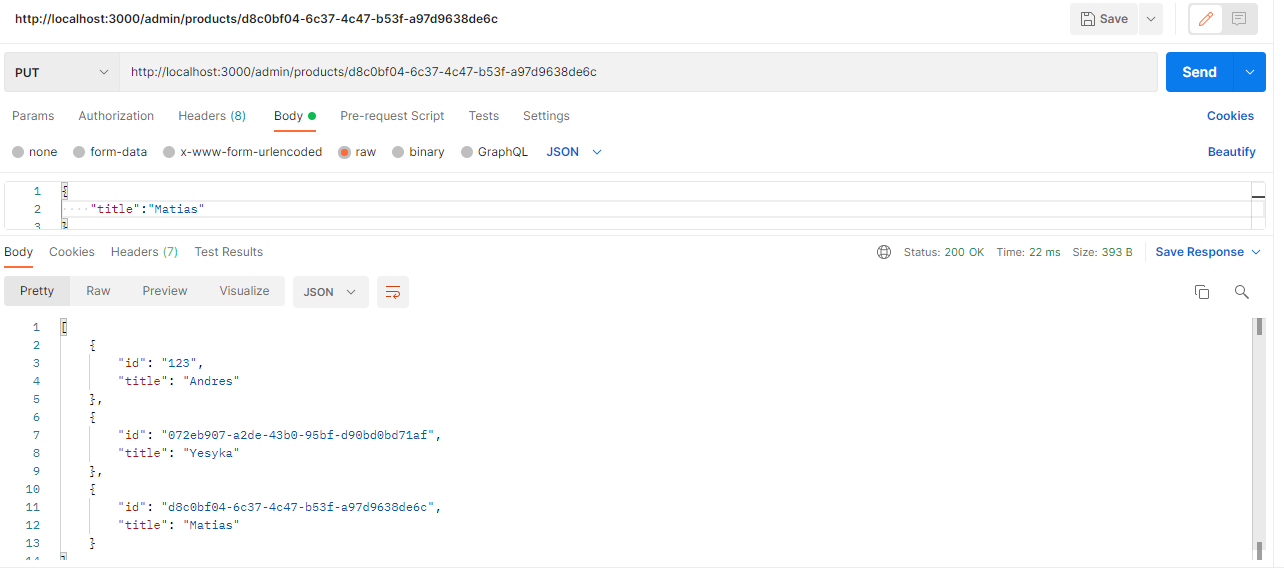
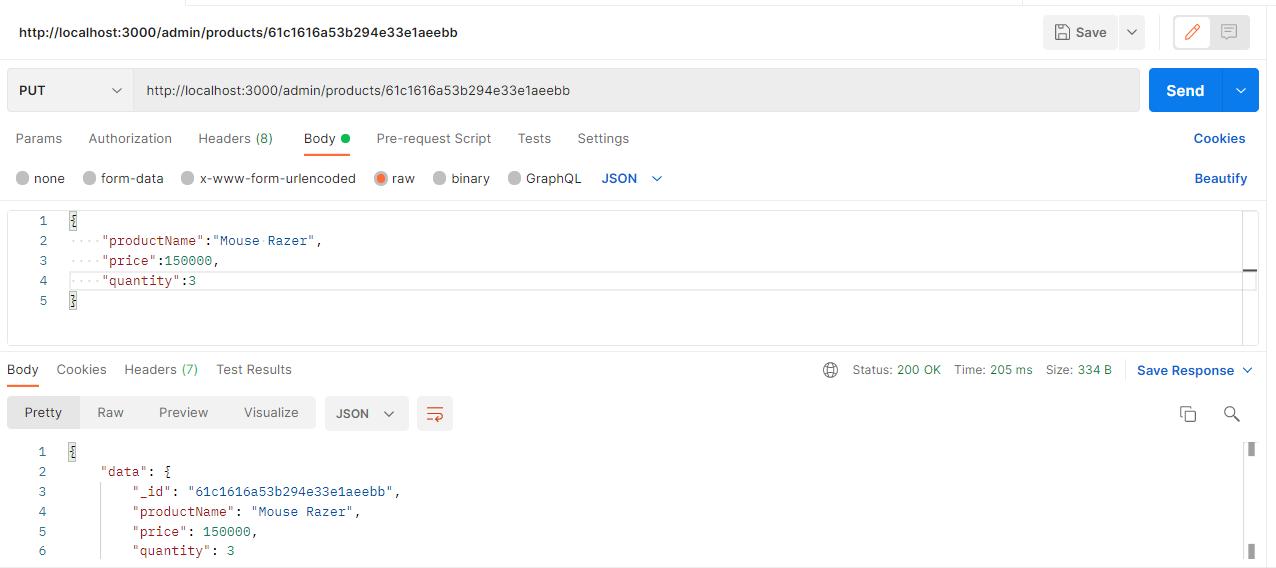
Add Schemas and CRUD operations

diff --git a/server/api/controllers/products.controllers.js b/server/api/controllers/products.controllers.js
@@ -1,40 +1,92 @@
+import { validationResult } from 'express-validator';
 import { Product } from '../models/product.model.js';
 import HttpError from '../models/error.model.js';
 
-const allProducts = (req, res) => {
-  const products = Product.fetchAll();
-  console.log(products);
-  res.json(products);
-};
-
-const oneProduct = (req, res, next) => {
+const validId = async (req, res, next) => {
   const { id } = req.params;
-  const product = Product.fetchById(id);
-  if (!product) return next(new HttpError('Invalid Product ID', 404));
-  return res.json({ product });
+  try {
+    const data = await Product.findById(id).select('-__v');
+    if (data) {
+      req.doc = data;
+      next();
+    } else {
+      return new HttpError('Product Not Found', 404);
+    }
+  } catch {
+    return next(new HttpError('Invalid Product ID', 404));
+  }
 };
 
-const createProduct = (req, res) => {
-  const { title } = req.body;
-  const product = new Product(title);
-  product.save();
-  res.redirect('/admin/products');
+const createProduct = async (req, res, next) => {
+  const { body = {} } = req;
+  const newDocument = new Product(body);
+  try {
+    const data = await newDocument.save();
+    const status = 201;
+    return res.status(status).json({ data });
+  } catch (error) {
+    return next(
+      new HttpError('Create product failed, please try again leter', 500)
+    );
+  }
 };
 
-const updateProduct = (req, res, next) => {
-  const { id } = req.params;
-  const { title } = req.body;
-  const product = Product.fetchById(id);
-  if (!product) return next(new HttpError('Invalid Product ID', 404));
-  Product.update(id, { title });
-  return res.redirect('/admin/products');
+const allProducts = async (req, res, next) => {
+  try {
+    const data = await Product.find({}).select('-__v');
+    res.json({ data });
+  } catch (error) {
+    next(
+      new HttpError('Fetching products failed, please try again later', 500)
+    );
+  }
 };
 
-const deleteById = (req, res, next) => {
-  const { id } = req.params;
-  const product = Product.fetchById(id);
-  if (!product) return next(new HttpError('Invalid Product ID', 404));
-  Product.deleteById(id);
-  return res.redirect('/admin/products');
+const oneProduct = async (req, res, next) => {
+  const { doc = {} } = req;
+  res.json({ data: doc });
 };
-export { allProducts, oneProduct, createProduct, updateProduct, deleteById };
+
+const updateProduct = async (req, res, next) => {
+  const errors = validationResult(req);
+  if (!errors.isEmpty()) {
+    return next(errors);
+  }
+  const { doc = {}, body = {} } = req;
+  if (typeof body.productName === 'string') {
+    doc.productName = body.productName;
+  }
+  if (typeof body.price === 'number') {
+    doc.price = body.price;
+  }
+  if (typeof body.quantity === 'number') {
+    doc.quantity = body.quantity;
+  }
+  try {
+    console.log('doc', doc);
+    const data = await doc.save();
+    return res.json({ data });
+  } catch (error) {
+    return next(
+      new HttpError('Updating data failed, please try again later', 500)
+    );
+  }
+};
+
+const deleteById = async (req, res, next) => {
+  const { doc = {} } = req;
+  try {
+    const data = await doc.remove();
+    res.json({ data });
+  } catch (error) {
+    next(error);
+  }
+};
+export {
+  allProducts,
+  oneProduct,
+  createProduct,
+  updateProduct,
+  deleteById,
+  validId,
+};

diff --git a/server/api/models/product.model.js b/server/api/models/product.model.js
@@ -1,47 +1,9 @@
-import { v4 as uuid } from 'uuid';
+import mongoose from 'mongoose';
 
-let products = [
-  {
-    id: '123',
-    title: 'Andres',
-  },
-];
+const productSchema = new mongoose.Schema({
+  productName: { type: String, required: true },
+  price: { type: Number, required: true },
+  quantity: { type: Number, required: true },
+});
 
-export class Product {
-  constructor(title) {
-    this.title = title;
-    this.id = uuid();
-  }
-
-  save() {
-    const { id } = this;
-    const { title } = this;
-    products.push({ id, title });
-  }
-  static fetchAll() {
-    return products;
-  }
-  static fetchById(id) {
-    const userById = products.find((e) => e.id === id);
-    return userById;
-  }
-  static deleteById(id) {
-    const productFiltered = products.filter((p) => p.id !== id);
-    products = productFiltered;
-    return products;
-  }
-  static update(id, newData) {
-    const productIndex = products.indexOf(this.fetchById(id));
-    const productsCopy = [...products];
-    const validData = {};
-    if (newData.title) {
-      validData.title = newData.title;
-    }
-    productsCopy[productIndex] = {
-      ...productsCopy[productIndex],
-      ...validData,
-    };
-    products = productsCopy;
-    return products;
-  }
-}
+export const Product = mongoose.model('product', productSchema);

diff --git a/server/api/routes/products.routes.js b/server/api/routes/products.routes.js
@@ -5,11 +5,13 @@ import {
   oneProduct,
   updateProduct,
   deleteById,
+  validId,
 } from '../controllers/products.controllers.js';
 
 const router = Router();
 
 router.route('/').get(allProducts).post(createProduct);
+router.param('id', validId);
 router.route('/:id').get(oneProduct).put(updateProduct).delete(deleteById);
 
 export default router;

diff --git a/README.MD b/README.MD
@@ -18,7 +18,7 @@
 
 ## Metodo Put
 
-- Update by Id "Cataleya" to "Matias"
+- Update by Id "Kuruma" to "Razer"
 
 ![Screenshot](assets/postman4.png)
 
@@ -27,3 +27,4 @@
 - Delete by Id
 
 ![Screenshot](assets/postman5.png)
+![Screenshot](assets/postman6.png)
